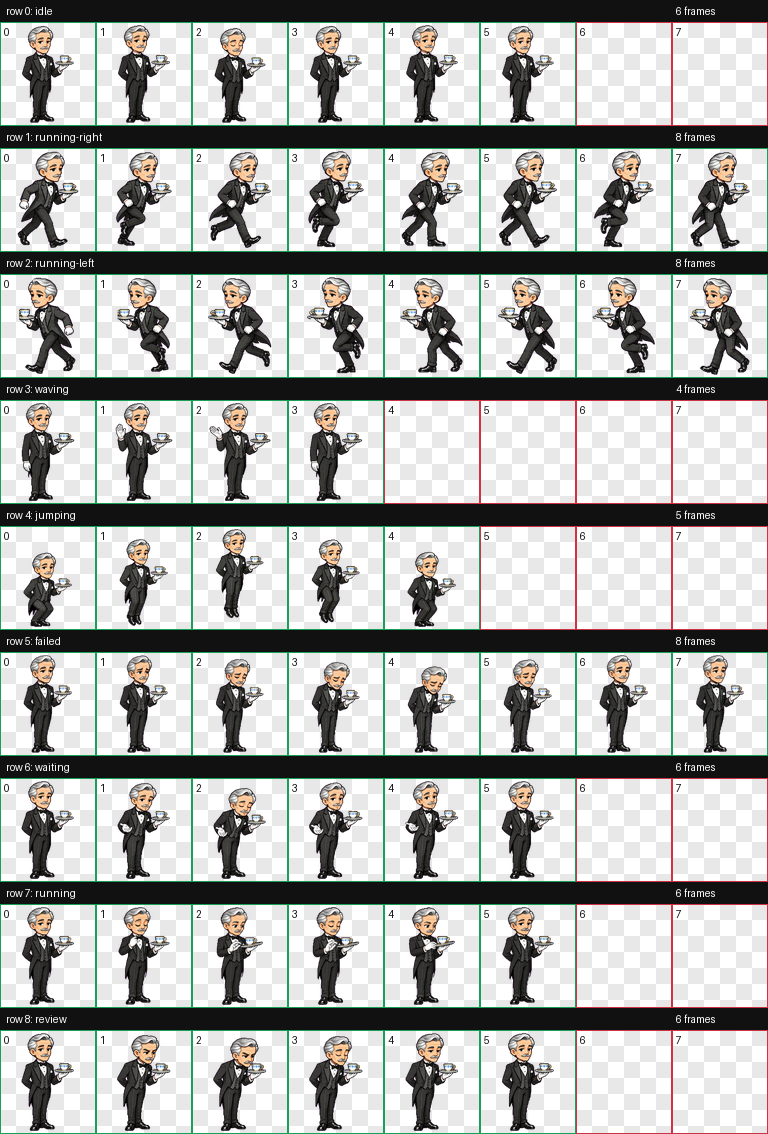
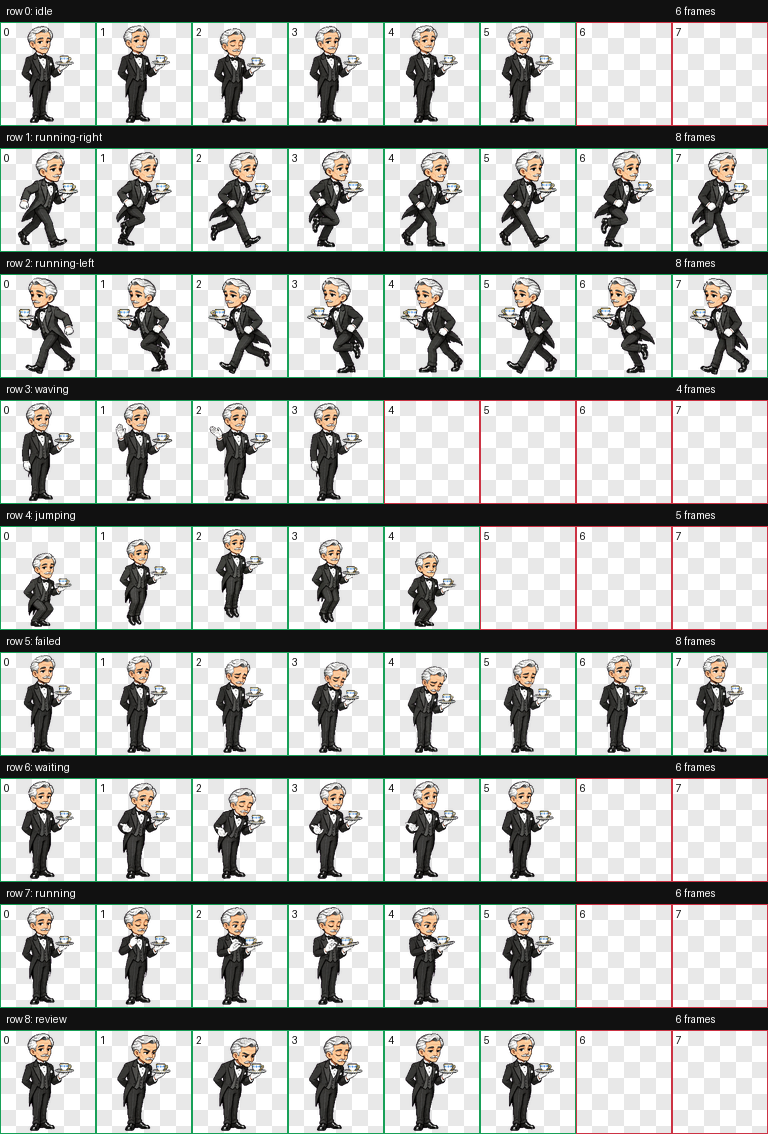
Clean Alfred pet sprite edges

diff --git a/docs/pet.md b/docs/pet.md
@@ -1,6 +1,14 @@
 # Alfred Codex Pet
 
-Alfred is a custom Codex pet packaged at `/Users/pablo/.codex/pets/alfred`.
+Alfred is a custom Codex pet. Install it into the active Codex home with:
+
+```bash
+PET_HOME="${CODEX_HOME:-$HOME/.codex}/pets/alfred"
+mkdir -p "$PET_HOME"
+cp assets/pet/pet.json assets/pet/spritesheet.webp "$PET_HOME"/
+```
+
+Then select it in Codex from Settings > Pets > Alfred.
 
 The pet uses the official 8 column by 9 row Codex atlas contract:
 
@@ -32,4 +40,4 @@ Generated QA artifacts are kept in `assets/pet/`:
 - `idle-preview.gif`
 
 The source run used the hatch-pet deterministic pipeline at `/private/tmp/alfred-pet-run`.
-Validation passed with exact `1536x1872` WebP output, no atlas errors, and zero transparent RGB residue pixels.
+Validation passed with exact `1536x1872` WebP output, no atlas errors, and zero transparent RGB residue pixels. The cleaned atlas was checked on dark and light backgrounds to confirm the magenta generation matte was removed.
